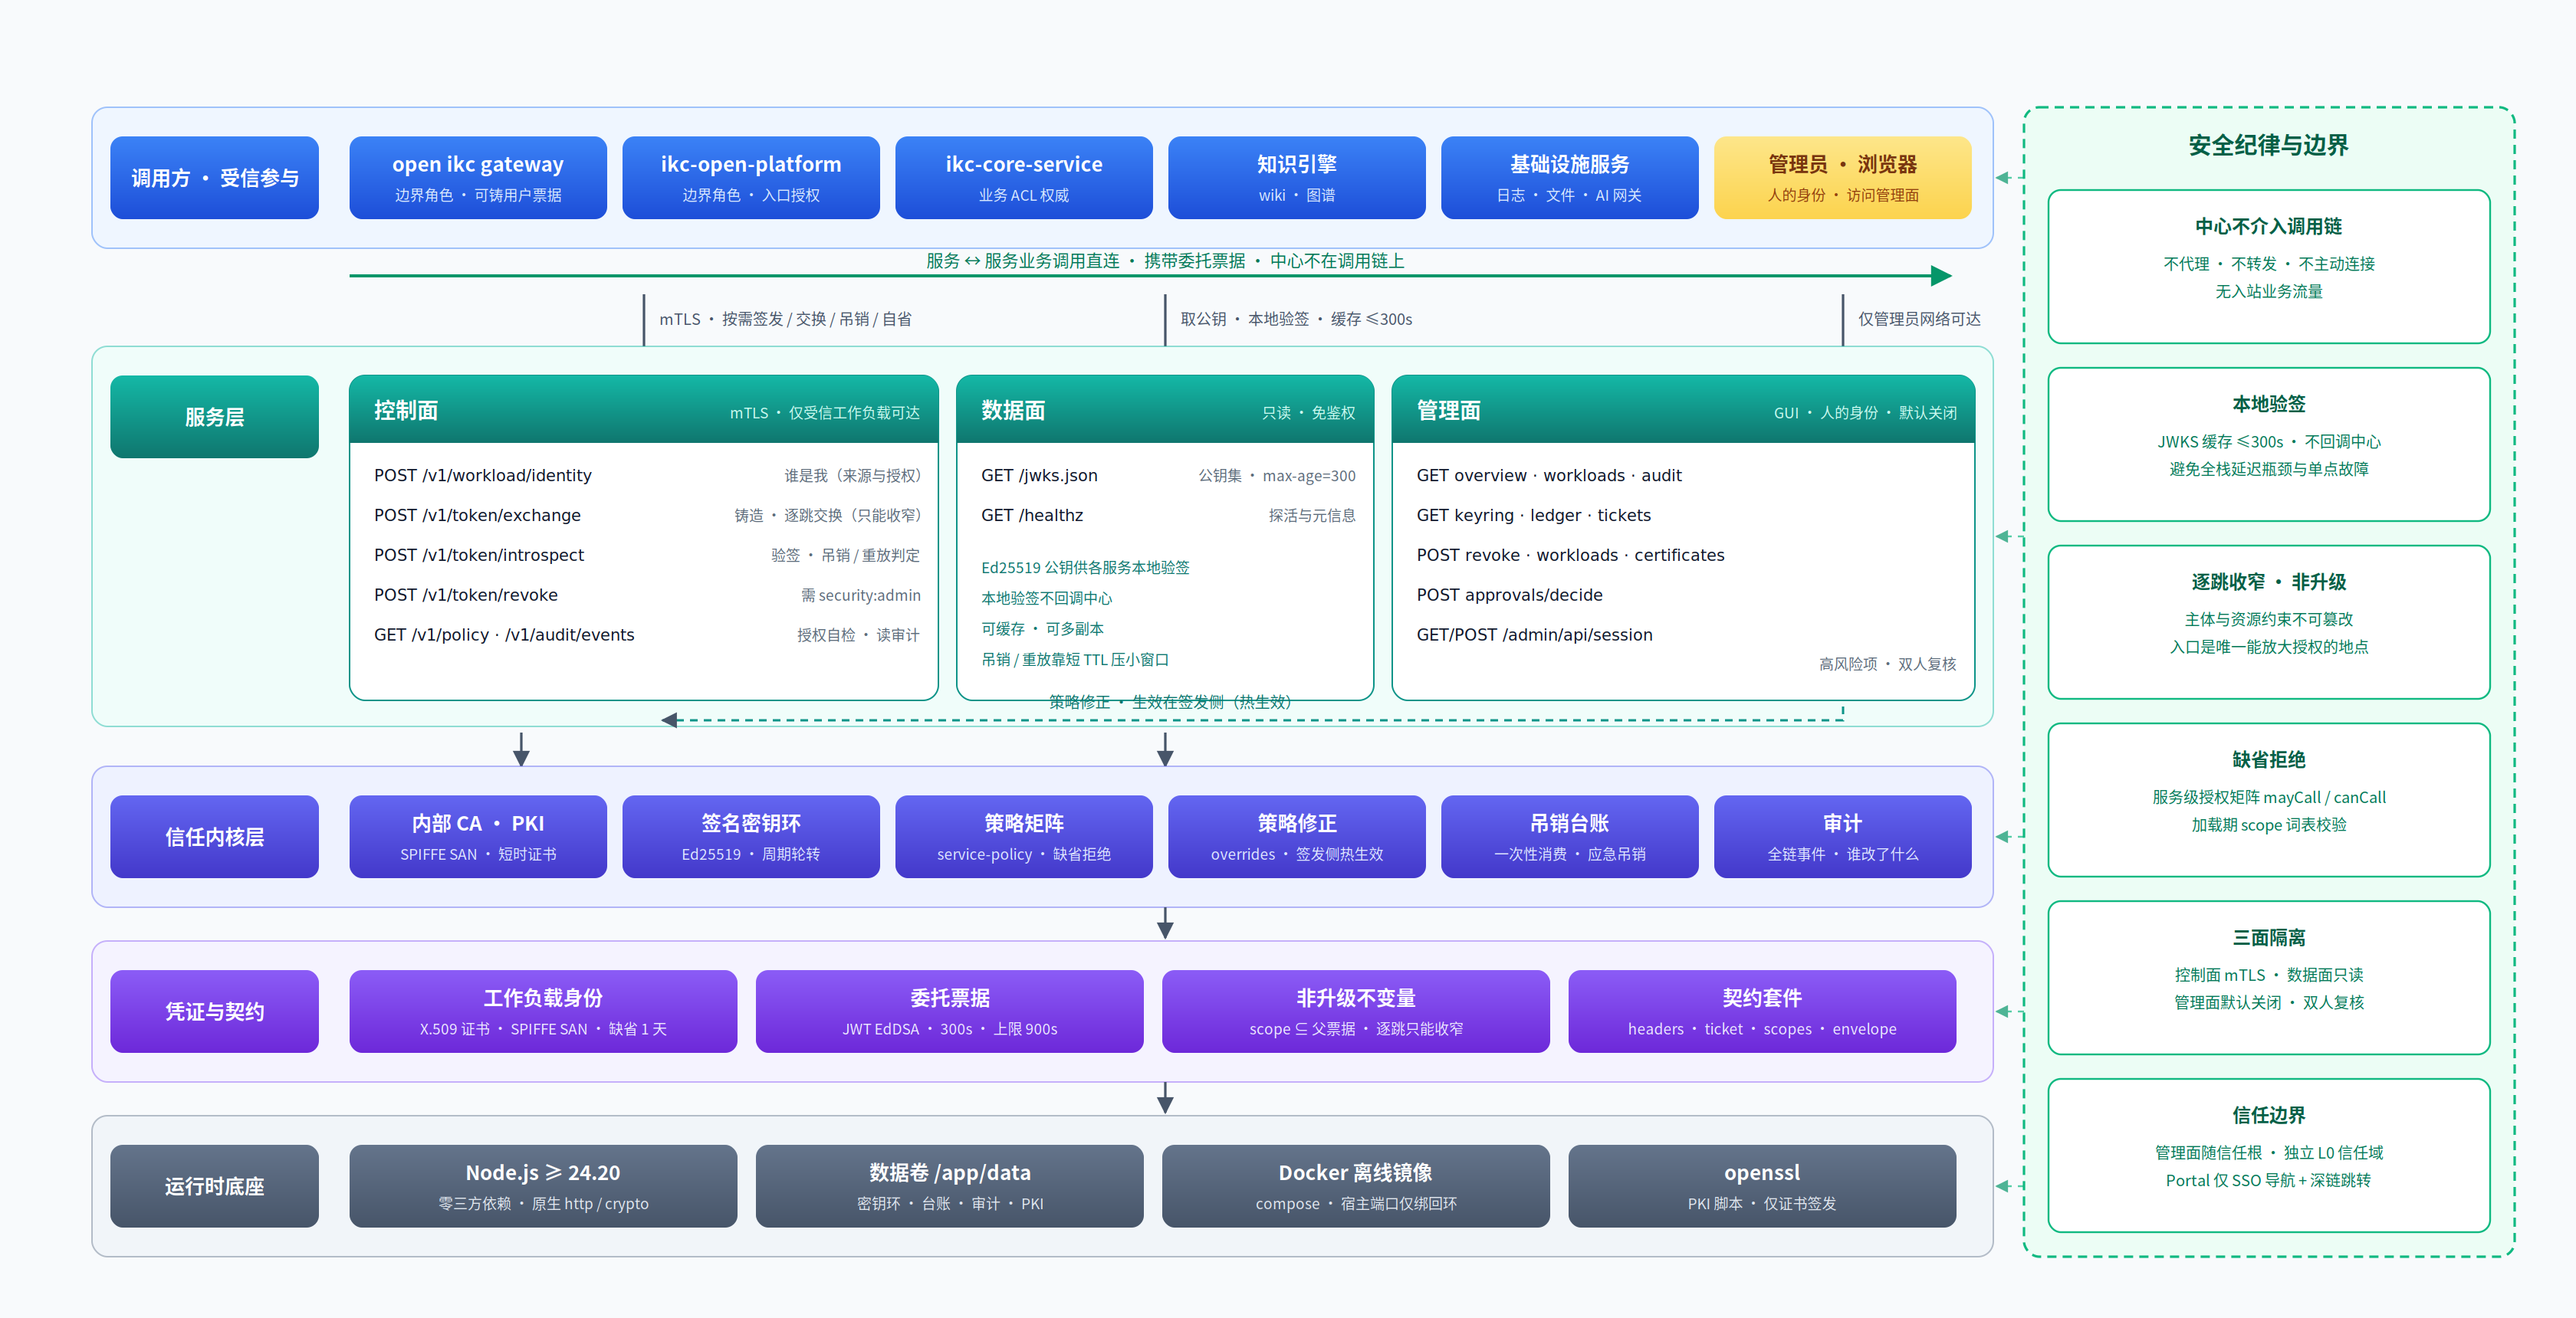
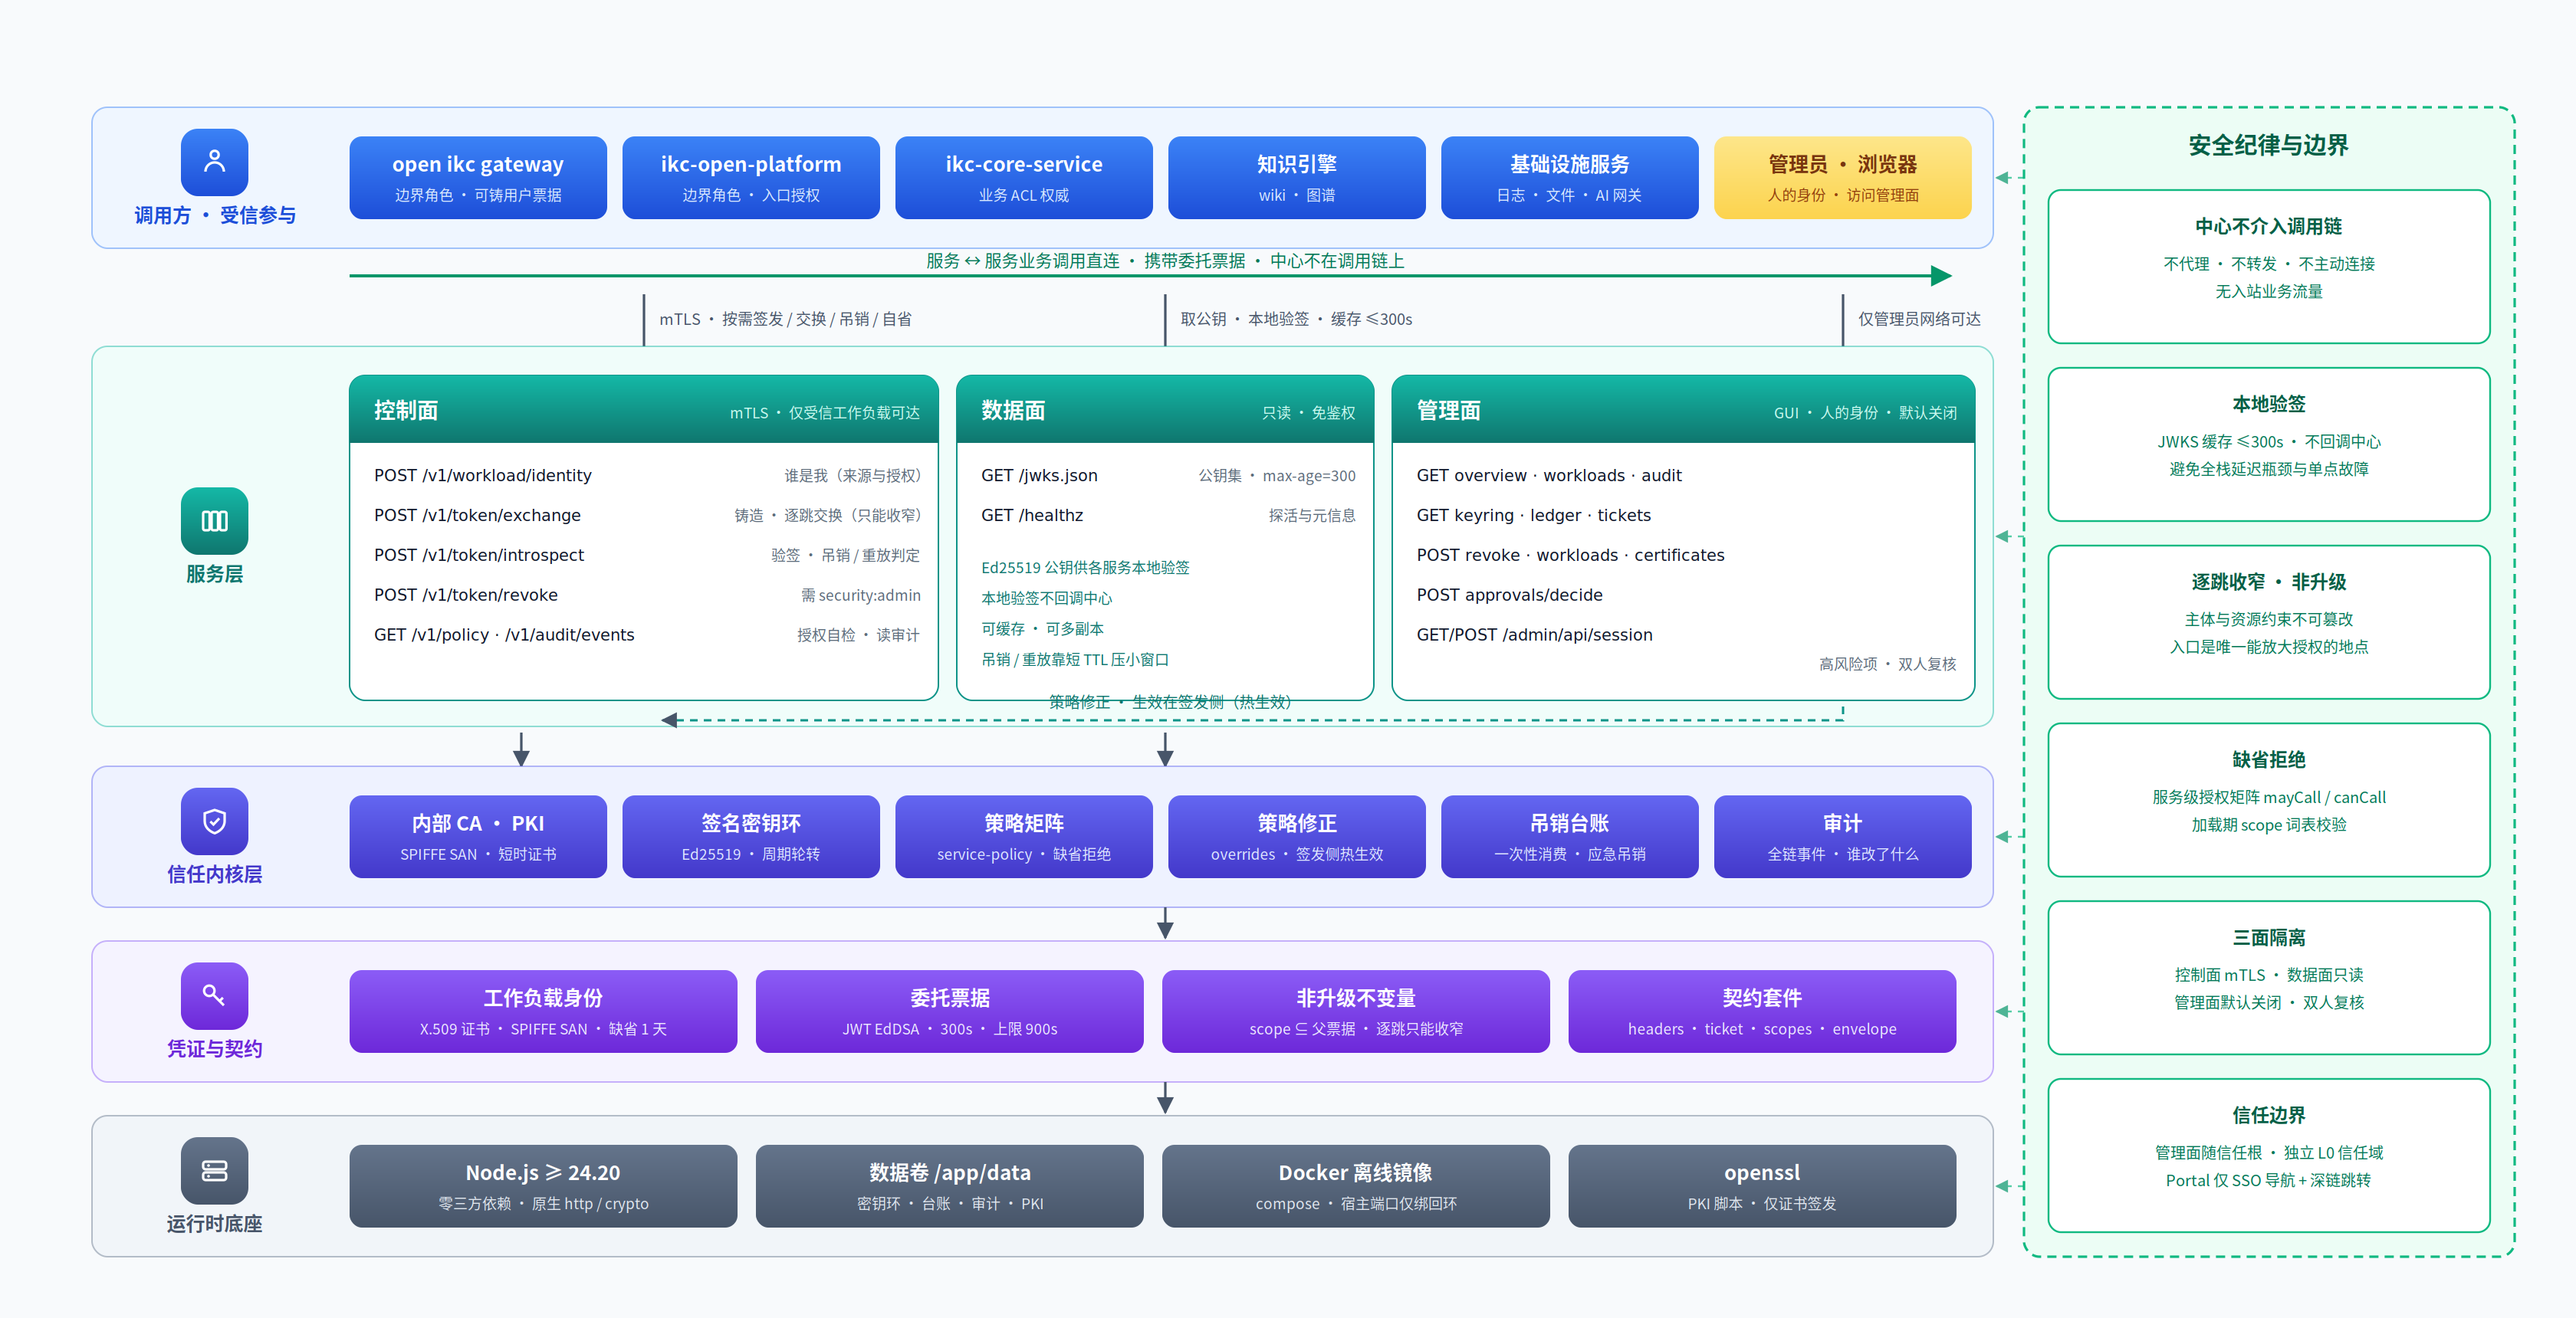
chore: 安全中心架构图左侧层标签改为图标徽章样式对齐 wiki

diff --git a/docs/worklog.md b/docs/worklog.md
@@ -1544,3 +1544,8 @@
 
 - 用户反馈路由折线表达有问题，撤销上一条 ②：删除调用方层顶部折线 path（M322.5,108 …）与左侧「调用路由」注记文本；「ikc-demo 样板 → ikc 标准知识库」改名保留。grep 确认图内 调用路由/M322.5 零残留（余下一处 #94a3b8 为 v1.0 既有 ES 虚线框描边，非本次连线）。
 - 验证：XML OK；cairosvg 2x 重渲染同名 PNG，裁剪 L1 带目检折线与注记已消失、五卡排布恢复原样。仅配图改动，跳过 pytest 与 Claude 只读审查。
+
+### 任务：安全中心架构图左侧层标签改图标徽章（对齐 wiki）（2026-10-19）
+
+- 按用户「和 wiki 一样」要求，把 docs/images/安全中心架构图_v1.0.svg 左侧五层标签由「嵌在层带内的 136×54 纯色文字胶囊（白字）」改为 OpenWiki-Server 框架图同款「44×44 彩色圆角图标徽章（渐变底 + 白色矢量图标）+ 下方深色横向层名」，徽章与文字居中 x=140、垂直居中于各层带。五枚图标按语义：调用方·受信参与=人形(gBlue/#1d4ed8)、服务层=三面竖列(gTeal/#0f766e)、信任内核层=盾牌勾(gIndigo/#4338ca)、凭证与契约=钥匙(gViolet/#6d28d9)、运行时底座=服务器机架(gSlate/#475569)；文字由白改各层深阶色（置于浅色层带底上）。
+- 验证：XML 校验 OK；注入 Noto Sans CJK SC 后 cairosvg 2x 渲染覆盖 v1.0.png，左侧裁切目检五徽章图标清晰、文字无豆腐块、不与 x=228 起的内容卡片重叠。仅配图改动，跳过 pytest 与 Claude 只读审查。
